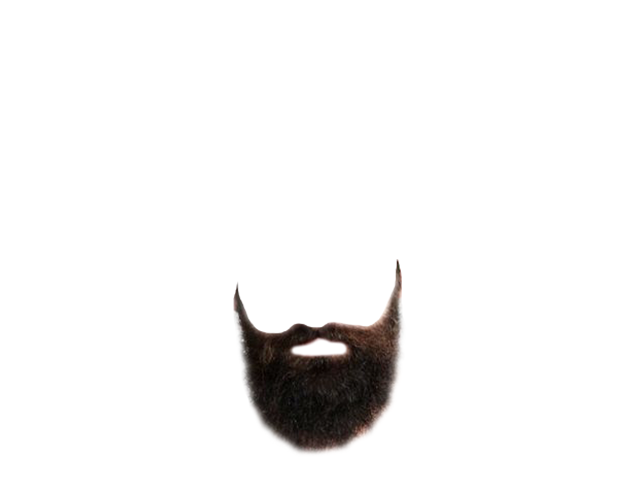
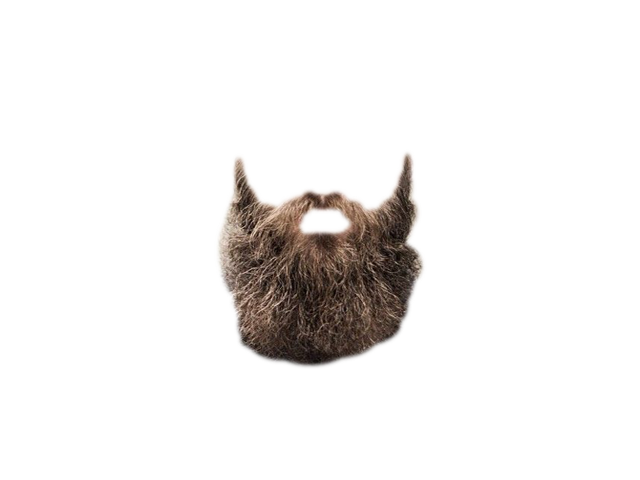
beard options added

Changed region(s): [[0.3438, 0.3125, 0.6875, 0.9688]]

diff --git a/app/assets/javascripts/main.js b/app/assets/javascripts/main.js
@@ -11,6 +11,7 @@ document.addEventListener("DOMContentLoaded", function(event) {
   var snapshotButton = document.querySelector('button#snapshot');
   var saveButton = document.querySelector('button#save-button');
   var retakeButton = document.querySelector('button#retake-button');
+  var nextBeardButton = document.querySelector('button#next-beard');
 
   // Put variables in global scope to make them available to the browser console.
   var video = window.video = document.querySelector('video');
@@ -25,7 +26,17 @@ document.addEventListener("DOMContentLoaded", function(event) {
   $(canvas).hide();
   $(saveButton).hide();
 
+  nextBeardButton.onclick = function() {
+    var currentImageIndex = ~~($(beardImage).attr('src').match(/\d+/));
+    var nextImageIndex = (currentImageIndex+1) % 4;
+    console.log(currentImageIndex);
+
+    $(beardImage).attr('src', '/assets/beard' + nextImageIndex + '.png');
+  };
+
   retakeButton.onclick = function() {
+    $(nextBeardButton).show();
+    $(beardImage).show();
     $(snapshotButton).show();
     $(video).show();
     $(saveButton).hide();
@@ -36,6 +47,8 @@ document.addEventListener("DOMContentLoaded", function(event) {
   snapshotButton.onclick = function() {
     canvas.getContext('2d').drawImage(video, 0, 0, canvas.width,canvas.height);
     canvas.getContext('2d').drawImage(beardImage, 0, 0, canvas.width, canvas.height);
+    $(nextBeardButton).hide();
+    $(beardImage).hide();
     $(snapshotButton).hide();
     $(video).hide();
     $(canvas).show();

diff --git a/app/assets/stylesheets/main.css b/app/assets/stylesheets/main.css
@@ -283,7 +283,7 @@ video {
       filter: sepia(1);
     }
 
-    button#snapshot, button#save-button, button#retake-button {
+    button#snapshot, button#save-button, button#retake-button, button#next-beard {
       margin: 0 10px 25px 0;
       width: 110px;
     }
